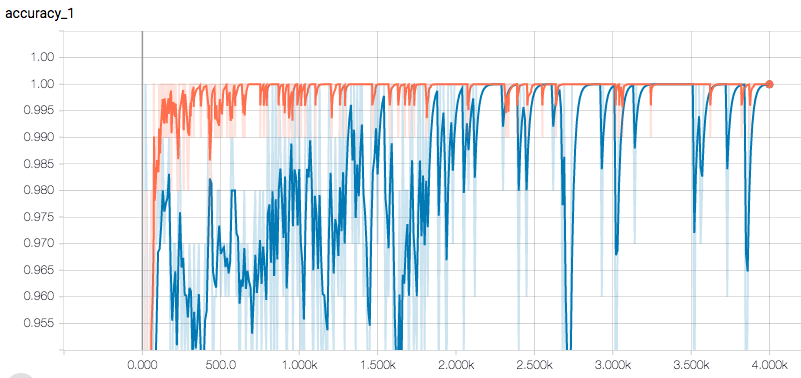
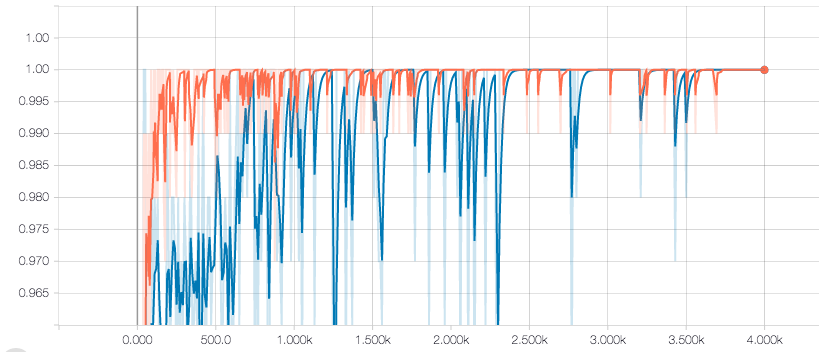
updated README

diff --git a/README.md b/README.md
@@ -6,8 +6,14 @@ Capstone Project. System Integration
 ### Simulator 
 https://drive.google.com/open?id=0Bw5abyXVejvMci03bFRueWVXX1U
   
-Simulator accuracy: 
+### Udacity's test track
+https://drive.google.com/file/d/0B2_h37bMVw3iYkdJTlRSUlJIamM/view  
+
+Accuracy on the simulator data: 
 ![](model/sim_accuracy.png)
+  
+Accuracy on the Udacity's test track data: 
+![](model/udacity_accuracy.png)
 
 ## Usage
 ### Train 
